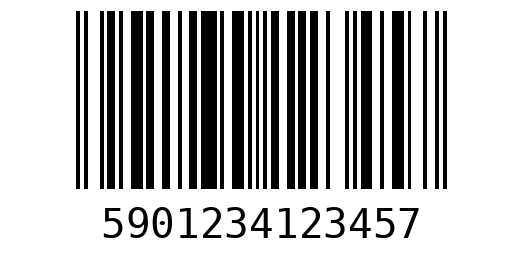
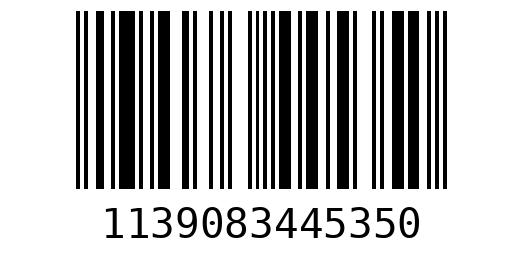
impresora pequeña

diff --git a/core/views.py b/core/views.py
@@ -33,12 +33,13 @@ from django.urls import reverse_lazy
 from django.contrib.auth import update_session_auth_hash
 from django.core.exceptions import ObjectDoesNotExist  # Importa la excepción ObjectDoesNotExist
 from barcode.writer import ImageWriter
-from barcode import generate
 import random
 from barcode import EAN13
 from django.core.paginator import Paginator
 from django.views.generic import ListView
 from math import ceil
+from escpos import *
+from .impresora import abrir_caja_impresora, imprimir, imprimir_en_xprinter, generar_y_imprimir_codigo_ean13
 
 
 # ██╗░░░░░░█████╗░░██████╗░██╗███╗░░██╗  ██╗░░░██╗██╗███████╗░██╗░░░░░░░██╗░██████╗
@@ -56,59 +57,6 @@ def cerrar_sesion(request):
     logout(request)
     return redirect(index)
 
-
-
-# ███████╗██╗░░░██╗███╗░░██╗░█████╗░██╗░█████╗░███╗░░██╗███████╗░██████╗
-# ██╔════╝██║░░░██║████╗░██║██╔══██╗██║██╔══██╗████╗░██║██╔════╝██╔════╝
-# █████╗░░██║░░░██║██╔██╗██║██║░░╚═╝██║██║░░██║██╔██╗██║█████╗░░╚█████╗░
-# ██╔══╝░░██║░░░██║██║╚████║██║░░██╗██║██║░░██║██║╚████║██╔══╝░░░╚═══██╗
-# ██║░░░░░╚██████╔╝██║░╚███║╚█████╔╝██║╚█████╔╝██║░╚███║███████╗██████╔╝
-# ╚═╝░░░░░░╚═════╝░╚═╝░░╚══╝░╚════╝░╚═╝░╚════╝░╚═╝░░╚══╝╚══════╝╚═════╝░
-
-def abrir_caja_impresora():
-    try:
-        # Abre una conexión con la impresora a través de USB (sustituye los valores con los adecuados)
-        printer = Usb(0x0483, 0x070B)
-
-        # Envía el comando para abrir la caja
-        printer.cashdraw(2)  # El número puede variar según la impresora
-
-        # Cierra la conexión con la impresora
-        printer.close()
-
-        return True  # Éxito al abrir la caja
-    except Exception as e:
-        return False  # Error al abrir la caja
-
-def imprimir(request):
-    try:
-        printer = Usb(0x0483, 0x070B)
-
-        # Imprimir un texto de ejemplo
-        text_to_print = "¡Hola, mundo desde Python con Xprinter XP-80C!"
-        printer.text(text_to_print)
-        #printer.cut()
-
-        # Cerrar la conexión con la impresora
-        printer.close()
-
-        return HttpResponse("Impresión exitosa")  # Esto devuelve una respuesta HTTP con un mensaje de éxito.
-    except Exception as e:
-        return HttpResponse(f"Error al imprimir: {str(e)}", status=500)  # Esto devuelve una respuesta HTTP con un mensaje de error y un estado 500 (Error interno del servidor).
-    
-def imprimir_en_xprinter(content):
-    config = Configuracion.objects.get(id=1)
-    # Abre una conexión con la impresora a través de USB (sustituye los valores con los adecuados)
-    printer = Usb(0x0483, 0x070B)
-
-    # Envía el contenido de la boleta como comandos de impresión
-    printer.text(content)
-
-    if config.imprimir == 'con_corte':
-        #printer.cut()
-        print("test")
-
-    printer.close()
 
 
 # ██████╗░██╗░░░██╗░██████╗░█████╗░░█████╗░██████╗░░█████╗░██████╗░  ██╗███╗░░██╗██████╗░███████╗██╗░░██╗
@@ -658,13 +606,7 @@ def abrir_caja(request):
             if contraseña == configuracion.clave_anulacion or contraseña == request.user.clave_anulacion:
                 try:
                     # Abre una conexión con la impresora a través de USB (sustituye los valores con los adecuados)
-                    printer = Usb(0x0483, 0x070B)
-
-                    # Envía el comando para abrir la caja
-                    printer.cashdraw(2)  # El número puede variar según la impresora
-
-                    # Cierra la conexión con la impresora
-                    printer.close()
+                    abrir_caja_impresora()
 
                     messages.error(request, 'Caja abierta Exitosamente.')
                 except Exception as e:
@@ -1172,7 +1114,7 @@ def informe_general(request):
         content += "Caja Diaria: ${:.{}f}\n".format(context['monto_caja'] if context['monto_caja'] is not None else 0, decimales)
         content += "Total Neto General: ${:.{}f}\n".format(context['total_bruto_general']['total_neto'] if context['total_bruto_general']['total_neto'] is not None else 0, decimales)
       
-        content += "Total de Ventas por Departamento:\n"
+        content += "Total de Ventas por Depto:\n"
         for venta_por_departamento in ventas_por_departamento:
             content += "{}:\n".format(venta_por_departamento['departamento'] if venta_por_departamento['departamento'] is not None else "sin departamento")
             content += "    ${:.2f}\n".format(venta_por_departamento['total_ventas'] if venta_por_departamento['total_ventas'] is not None else 0.00)
@@ -1182,7 +1124,10 @@ def informe_general(request):
         return content
     
     content = generar_comandos_de_impresion(context, decimales)
+
     # response = HttpResponse(content, content_type='text/plain')
+
+    # imprimir_en_xprinter(content)
     # return response
     if request.method == 'POST':
         print("imprimiendo reporte")
@@ -1540,38 +1485,6 @@ def generar_codigo_ean13(request):
     return response
 
 
-def generar_y_imprimir_codigo_ean13(request):
-    try:
-        # Genera un número aleatorio de 12 dígitos para el código de barras EAN-13
-        codigo_de_barras = ''.join([str(random.randint(0, 9)) for _ in range(12)])
-
-        # Crea el objeto EAN-13
-        ean = EAN13(codigo_de_barras, writer=ImageWriter())
-
-        # Genera el código de barras como una imagen PNG
-        barcode_image = ean.render()
-
-        # Configura la impresora
-        printer = Usb(0x0483, 0x070B)
-
-        # Imprime el código de barras en la impresora
-        printer.image(barcode_image)
-
-        # Corta el papel (si es necesario)
-        #printer.cut()
-
-        # Cierra la conexión con la impresora
-        printer.close()
-
-        # Devuelve la imagen como respuesta HTTP (opcional)
-        response = HttpResponse(content_type='image/png')
-        barcode_image.save(response, 'PNG')
-
-        return response
-
-    except Exception as e:
-        return HttpResponse(f"Error al generar e imprimir el código de barras: {str(e)}", status=500)
-    
 
 
 # ██╗░░░██╗███████╗██████╗░  ░█████╗░░█████╗░███╗░░██╗████████╗███████╗██╗░░██╗████████╗░█████╗░  ██████╗░███████╗

diff --git a/core/impresora.py b/core/impresora.py
@@ -1,0 +1,86 @@
+import subprocess
+from .models import *
+from django.shortcuts import render, redirect, get_object_or_404
+from barcode import generate
+import sys
+from unidecode import unidecode
+from django.http import HttpResponse
+import random
+from barcode import EAN13
+from barcode.writer import ImageWriter
+from PIL import Image
+import io
+
+USB = "/dev/usb/lp0"
+
+def generar_y_imprimir_codigo_ean13(request):
+    try:
+        # Genera un número aleatorio de 12 dígitos para el código de barras EAN-13
+        codigo_de_barras = ''.join([str(random.randint(0, 9)) for _ in range(12)])
+
+        # Crea el objeto EAN-13
+        ean = EAN13(codigo_de_barras, writer=ImageWriter())
+
+        # Genera el código de barras como una imagen PNG
+        barcode_image = ean.render()
+
+        # Guarda la imagen en un archivo temporal
+        tmp_image_path = "media/barcode.png"
+        barcode_image.save(tmp_image_path, 'PNG')
+
+        # Imprimir la imagen usando lpr
+        command = f'lpr -o raw {tmp_image_path} -P {USB}'
+        subprocess.call(command, shell=True)
+
+        # Devuelve la imagen como respuesta HTTP (opcional)
+        response = HttpResponse(content_type='image/png')
+        barcode_image.save(response, 'PNG')
+
+        return response
+
+    except Exception as e:
+        return HttpResponse(f"Error al generar e imprimir el código de barras: {str(e)}", status=500)
+
+
+def imprimir_en_xprinter(content):
+    config = Configuracion.objects.get(id=1)
+    print(content)
+
+    # Elimina los acentos del contenido
+    content_normalized = unidecode(content)
+
+    # Codifica el contenido en UTF-8
+    content_encoded = content_normalized.encode('utf-8')
+
+    # Abre el archivo de impresión en modo escritura con codificación UTF-8
+    with open(USB, 'wb') as printer_file:
+        printer_file.write(content_encoded)
+
+    return "Impresión exitosa"
+
+
+def imprimir(request):
+    try:
+        data_to_print = "Imprimiendo desde Python usando redirección de shell >> /dev/usb/lp0"
+
+        command = f'echo "{data_to_print}" >> {USB}'
+
+        # Ejecutar el comando en el shell
+        subprocess.call(command, shell=True)
+
+        return HttpResponse("Impresión exitosa")  # Esto devuelve una respuesta HTTP con un mensaje de éxito.
+    except Exception as e:
+        return HttpResponse(f"Error al imprimir: {str(e)}", status=500)  # Esto devuelve una respuesta HTTP con un mensaje de error y un estado 500 (Error interno del servidor).
+
+def abrir_caja_impresora():
+    # Comando en formato binario para abrir la gaveta
+    open_drawer_command = b'\x1B\x70\x00\x50\x50'
+
+    # Abre el archivo correspondiente al dispositivo USB
+    with open(USB, 'wb') as usb_device:
+        usb_device.write(open_drawer_command)
+
+    return "La gaveta se abrió"
+
+
+
